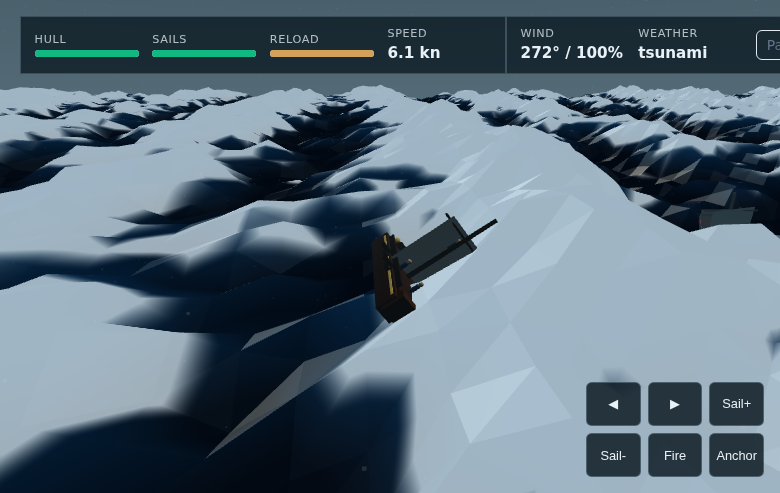
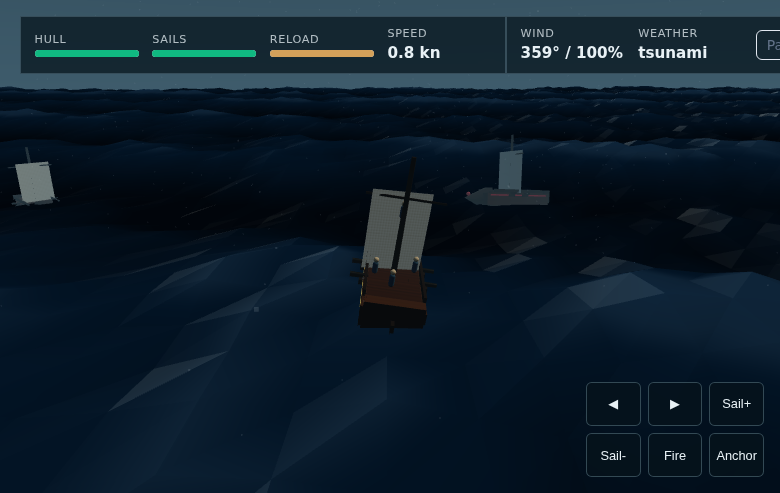
Tone down severe-weather waves so the ocean stays blue and readable.
Cap tornado/tsunami height, soften foam washout, and refresh playtest screenshots after the intensity scaling pass.

diff --git a/client/src/app/game/scene-host.ts b/client/src/app/game/scene-host.ts
@@ -227,7 +227,7 @@ export class SceneHost implements AfterViewInit, OnDestroy {
           // Crest factor for foam (steep rising faces)
           float hx = waveHeight(pos.xz + vec2(0.45, 0.0)) - h;
           float hz = waveHeight(pos.xz + vec2(0.0, 0.45)) - h;
-          vCrest = clamp(length(vec2(hx, hz)) * 1.8 + h * 0.35, 0.0, 1.5);
+          vCrest = clamp(length(vec2(hx, hz)) * 1.35 + max(0.0, h) * 0.12, 0.0, 1.5);
           vec4 world = modelMatrix * vec4(pos, 1.0);
           vWorld = world.xyz;
           gl_Position = projectionMatrix * viewMatrix * world;
@@ -249,17 +249,18 @@ export class SceneHost implements AfterViewInit, OnDestroy {
           vec3 n = normalize(cross(dx, dy));
           float fresnel = pow(1.0 - max(dot(n, vec3(0.0, 1.0, 0.0)), 0.0), 2.4);
           float ndl = max(dot(n, uSunDir), 0.0);
-          float depthMix = clamp(vWave * 0.28 + 0.4 + uWindStrength * 0.08, 0.0, 1.0);
+          // Prefer deep blue; only lift toward shallow on higher samples.
+          float depthMix = clamp(vWave * 0.16 + 0.22 + uWindStrength * 0.05, 0.0, 0.75);
           vec3 col = mix(uColorDeep, uColorShallow, depthMix);
-          // Darker troughs, brighter windward faces
-          col *= 0.82 + ndl * 0.28;
-          col += vec3(0.45, 0.65, 0.78) * fresnel * (0.4 + uChop * 0.2);
-          col += vec3(1.0, 0.96, 0.85) * pow(ndl, 42.0) * 0.45;
-          // Whitecaps on steep crests / wind streaks
-          float foamMask = smoothstep(0.5, 1.15, vCrest) * uFoam * (0.45 + uWindStrength * 0.55);
-          foamMask += smoothstep(0.75, 1.8, vWave) * uFoam * 0.28;
-          foamMask += pow(max(0.0, 1.0 - n.y), 2.6) * uChop * 0.12;
-          col = mix(col, vec3(0.88, 0.94, 0.97), clamp(foamMask, 0.0, 0.7));
+          // Darker troughs, brighter windward faces — keep saturation
+          col *= 0.78 + ndl * 0.22;
+          col += vec3(0.28, 0.48, 0.62) * fresnel * (0.28 + uChop * 0.12);
+          col += vec3(0.95, 0.92, 0.82) * pow(ndl, 48.0) * 0.28;
+          // Whitecaps only on steep crest tips — never wash the whole face white
+          float foamMask = smoothstep(0.85, 1.35, vCrest) * uFoam * (0.28 + uWindStrength * 0.35);
+          foamMask += smoothstep(1.15, 1.9, vWave) * uFoam * 0.12;
+          foamMask += pow(max(0.0, 1.0 - n.y), 3.4) * uChop * 0.05;
+          col = mix(col, vec3(0.72, 0.84, 0.9), clamp(foamMask, 0.0, 0.38));
           gl_FragColor = vec4(col, 1.0);
         }
       `,
@@ -630,7 +631,7 @@ export class SceneHost implements AfterViewInit, OnDestroy {
     const windDir = this.oceanMaterial.uniforms['uWindDir']!.value as THREE.Vector2;
     windDir.set(Math.sin(snap.ocean.windDirectionRad), Math.cos(snap.ocean.windDirectionRad));
     this.oceanMaterial.uniforms['uFoam']!.value =
-      0.22 + snap.ocean.chop * 0.4 + snap.ocean.windStrength * 0.25;
+      0.14 + snap.ocean.chop * 0.22 + snap.ocean.windStrength * 0.14;
 
     this.animateRain(snap, dt);
     this.animateSpray(snap, dt);
@@ -819,23 +820,24 @@ export class SceneHost implements AfterViewInit, OnDestroy {
       skyMat.uniforms['uTop']!.value.set(0x2a2e34);
       skyMat.uniforms['uHorizon']!.value.set(0x5a5040);
       skyMat.uniforms['uBottom']!.value.set(0x1a2218);
-      this.sun.intensity *= 0.55;
-      this.hemi.intensity *= 0.7;
+      this.sun.intensity *= 0.7;
+      this.hemi.intensity *= 0.85;
+      this.oceanMaterial?.uniforms['uColorDeep']!.value.set(0x081f32);
+      this.oceanMaterial?.uniforms['uColorShallow']!.value.set(0x1f5a78);
     } else if (snap.weather.id === 'tsunami') {
       skyMat.uniforms['uTop']!.value.set(night ? 0x0b1830 : 0x4a6a7a);
-      skyMat.uniforms['uHorizon']!.value.set(night ? 0x24364f : 0x9eb0b8);
+      skyMat.uniforms['uHorizon']!.value.set(night ? 0x24364f : 0x8aa4b0);
       skyMat.uniforms['uBottom']!.value.set(night ? 0x0a1622 : 0x163040);
+      this.oceanMaterial?.uniforms['uColorDeep']!.value.set(0x07283c);
+      this.oceanMaterial?.uniforms['uColorShallow']!.value.set(0x246a8c);
     } else {
       skyMat.uniforms['uTop']!.value.set(night ? 0x0b1830 : 0x87b7e0);
       skyMat.uniforms['uHorizon']!.value.set(night ? 0x24364f : 0xd7e6f2);
       skyMat.uniforms['uBottom']!.value.set(night ? 0x0a1622 : 0x1d3a4d);
+      this.oceanMaterial?.uniforms['uColorDeep']!.value.set(0x0a2f48);
+      this.oceanMaterial?.uniforms['uColorShallow']!.value.set(0x2a7194);
     }
     skyMat.uniforms['uFlash']!.value = snap.weather.lightningFlash;
-
-    if (this.oceanMaterial && snap.weather.id === 'tsunami') {
-      this.oceanMaterial.uniforms['uWaveHeight']!.value =
-        snap.ocean.waveHeight * (1 + snap.ocean.tsunamiPulse * (0.35 + intensity * 0.4));
-    }
 
     if (this.scene.fog instanceof THREE.FogExp2) {
       const fogBoost = snap.settings.accessibility.highContrast ? 0.6 : 1;

diff --git a/client/src/app/systems/ocean.system.ts b/client/src/app/systems/ocean.system.ts
@@ -24,24 +24,25 @@ export class OceanSystem {
     intensity = 0.55,
   ): OceanState {
     const i = clamp(intensity, 0, 1);
+    // Keep boosts modest so severe weather stays seagoing, not alpine.
     const stormBoost =
       weather === 'hurricane'
-        ? 2.2 + i * 0.7
+        ? 1.45 + i * 0.35
         : weather === 'tornado'
-          ? 1.9 + i * 0.8
+          ? 1.2 + i * 0.25
           : weather === 'storm' || weather === 'lightning'
-            ? 1.55 + i * 0.5
+            ? 1.28 + i * 0.28
             : weather === 'rain'
-              ? 1.15 + i * 0.2
+              ? 1.1 + i * 0.12
               : weather === 'tsunami'
-                ? 1.35 + i * 0.45
+                ? 1.15 + i * 0.2
                 : 1;
 
     let tsunamiPulse = ocean.tsunamiPulse;
     if (weather === 'tsunami') {
-      // Build a rolling pulse; intensity controls fill rate and ceiling.
-      const ceiling = 0.45 + i * 0.55;
-      tsunamiPulse = Math.min(ceiling, tsunamiPulse + dt * (0.22 + i * 0.35));
+      // Rolling swell pulse; intensity controls fill rate and ceiling.
+      const ceiling = 0.28 + i * 0.42;
+      tsunamiPulse = Math.min(ceiling, tsunamiPulse + dt * (0.18 + i * 0.28));
     } else {
       tsunamiPulse = Math.max(0, tsunamiPulse - dt * 0.5);
     }
@@ -53,28 +54,29 @@ export class OceanSystem {
 
     // Slow natural wander so seas never look perfectly periodic.
     const wander = 0.04 * Math.sin(ocean.time * 0.17) + 0.03 * Math.sin(ocean.time * 0.41 + 1.7);
-    const tornadoChop = weather === 'tornado' ? 0.2 + i * 0.45 : 0;
+    // Tornado: local vortex does the drama; global chop stays restrained.
+    const tornadoChop = weather === 'tornado' ? 0.08 + i * 0.18 : 0;
     const swell = clamp(
-      0.4 + windStrength * 0.55 + tsunamiPulse * (0.55 + i * 0.5) + wander,
+      0.4 + windStrength * 0.5 + tsunamiPulse * (0.35 + i * 0.3) + wander,
       0.25,
-      1.55,
+      1.25,
     );
     const chop = clamp(
-      (0.32 + windStrength * 0.55 + wander * 0.45 + tornadoChop) * stormBoost,
-      0.22,
-      1.55,
+      (0.28 + windStrength * 0.45 + wander * 0.4 + tornadoChop) * stormBoost,
+      0.2,
+      1.15,
     );
     const baseHeight = clamp(
-      (0.65 + windStrength * 0.5 + tsunamiPulse * (1.6 + i * 0.9) + swell * 0.15) *
+      (0.55 + windStrength * 0.4 + tsunamiPulse * (0.7 + i * 0.45) + swell * 0.12) *
         stormBoost *
         scale,
       0.25,
-      2.7,
+      1.85,
     );
 
     let waveLength = 16 + (1 - windStrength) * 10;
-    if (weather === 'tsunami') waveLength = 28 + i * 14;
-    else if (weather === 'tornado') waveLength = 12 + (1 - i) * 6;
+    if (weather === 'tsunami') waveLength = 32 + i * 12;
+    else if (weather === 'tornado') waveLength = 14 + (1 - i) * 6;
 
     return {
       ...ocean,
@@ -140,7 +142,7 @@ export class OceanSystem {
 
     const tsunami =
       ocean.tsunamiPulse > 0
-        ? Math.sin(along * k1 * 0.28 + t * 0.55) * H * 0.55 * ocean.tsunamiPulse
+        ? Math.sin(along * k1 * 0.22 + t * 0.48) * H * 0.32 * ocean.tsunamiPulse
         : 0;
 
     let vortex = 0;
